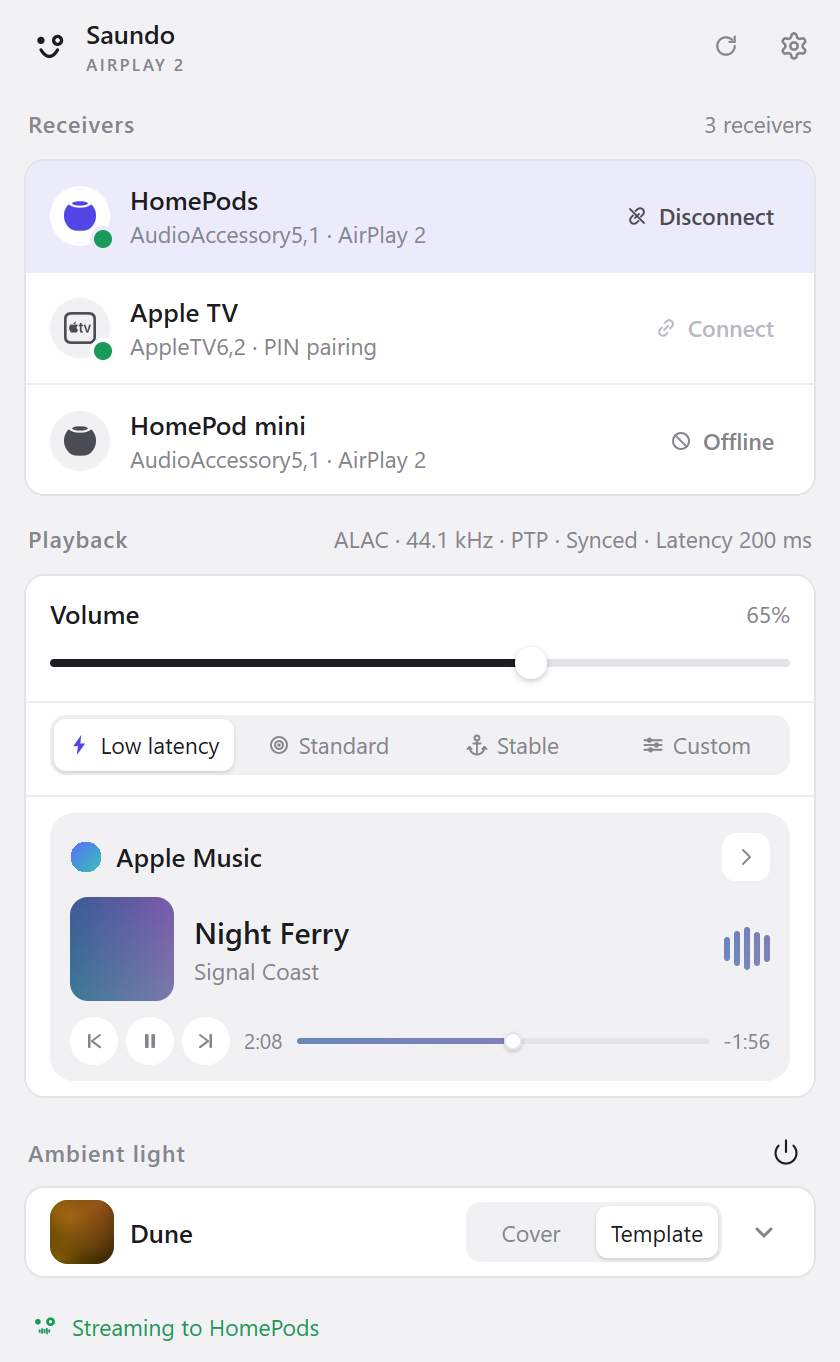
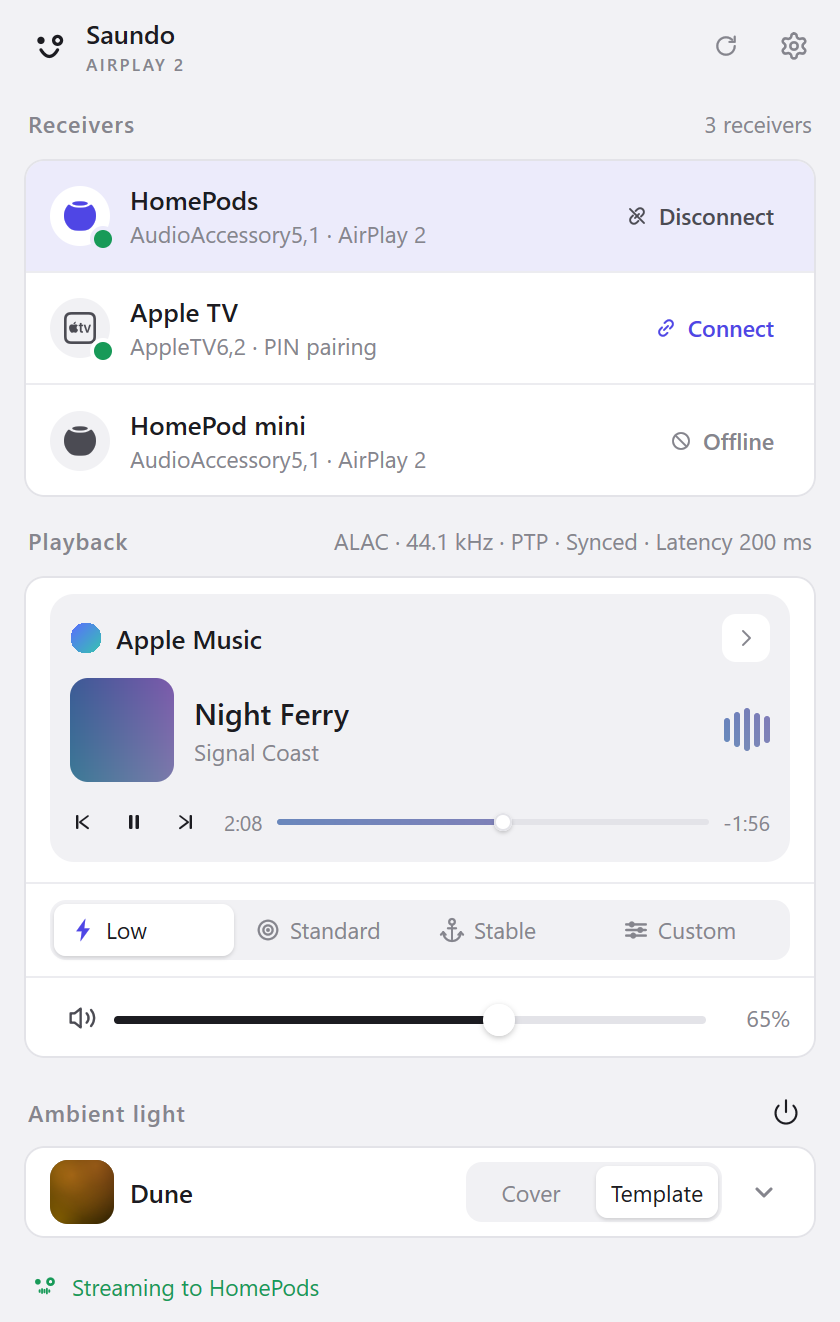
build: release 0.6.3
Release 0.6.3 ships macOS per-app capture, tray menu quick actions,
in-place receiver switching, the media-latency-volume playback card, and
the fail-closed receiver volume rule. It carries both changelogs, the
condensed bilingual READMEs, refreshed screenshots, the docs audit, the UI
review and mockup records, and the maintainer's pre-release test.

Checks: mingw32-make check (gofmt, mygo i18n, go vet, mygo vet, go test
./..., verify-map, check-platforms windows/amd64 and darwin/arm64) passed;
the signed candidate build produced update-windows-amd64.json at 0.6.3 with
the English notes and an 88-character signature; scripts/release-check.sh
passed (clean tree, tag absent, main ancestor, both changelogs, docs,
public repo, signing secret, both current feeds 200).
Pinned-by: the release changes are pinned by their own commits; this commit
adds no code.
Finding: 2026-11-14 live run on Windows 11 build 26300: the 0.6.3 build
streamed to the HomePods stereo pair with encrypted control at 44.1 kHz and
showed the new playback card; evidence in docs/verification.md and
.audit/release-0.6.3/live/.
Docs: CHANGELOG.md, CHANGELOG.zh-CN.md, README.md, README.zh-CN.md,
docs/architecture.md, docs/devices.md, docs/implementation.md,
docs/verification.md, docs/screenshots/; reviewed-through 2026-11-14.

diff --git a/README.md b/README.md
@@ -17,7 +17,7 @@ HomePod, HomePod mini, Mac, and Apple TV: everything the Mac or PC plays, one tr
 <br>
 
 <p align="center">
-  <img src="docs/screenshots/flyout-stream-light-en.png" width="290" alt="The Saundo tray panel: receiver list, volume, media card">
+  <img src="docs/screenshots/flyout-stream-light-en.png" width="290" alt="The Saundo tray panel: receiver list, media card, latency, volume, and ambient light">
   &nbsp;&nbsp;&nbsp;
   <img src="docs/screenshots/settings-connection-light-en.png" width="470" alt="The settings window: connection page">
 </p>
@@ -57,21 +57,15 @@ mingw32-make build  # builds bin/saundo.exe and an NSIS installer (bin/saundo-se
 
 ## What it does
 
-- **System audio capture** — WASAPI loopback on Windows or a Core Audio process tap on macOS: the default output, a fixed endpoint, or, on macOS, one or more applications.
-- **AirPlay 2, properly timed** — uncompressed ALAC at 44.1 kHz, PTP-locked to the receiver's clock (the sender is the PTP master for stereo pairs), encrypted control and event channels, retransmit on request.
-- **HomePod stereo pairs** — both members appear as one target and stream in lockstep.
-- **Receiver management** — add a receiver by IP or hostname when mDNS cannot find it, keep discovered receivers across power-offs, choose one auto-connect target, hide rows from the panel, and give each receiver a DSP/DAC delay plus its own OS-secured password (DPAPI on Windows, the Keychain on macOS). A directed unicast pass finds receivers that miss multicast; the receiver list is cached, so auto-connect starts at launch without waiting for discovery; and both surfaces list only the receivers you can use right now. A receiver that runs on the same computer is never a target: it stays in the hidden group with a Local chip.
-- **Connection health** — the Connection page names the receiver, its model, and its state, then shows the receiver's own reported processing time and this session's stability (Good, or Stuttering after a dropped sample). The two latency values measure different stages and are never added.
-- **Media card** — the tray panel shows the system media session with its app name and icon, cover, title, artist, the transport controls the session reports, and a live five-band meter; switch between open sessions. The Now Playing settings page controls the media card, the cover mode, cover colors, and the audio level. The receiver track-info push is always on.
-- **Ambient light** — on by default. The power action on the tray panel card turns a HomePod's top display off and on; a Cover/Template priority segment follows the media cover (the default) or one of six custom three-color templates. The preview mirrors the cover's extracted three-color palette and uses a media-glyph tile when there is no cover; the receiver's own fresh session shows a white-center placeholder. A pause keeps the current light. Idle standby turns the display off after a chosen period without playback — Never, 1, 5, 10, or 30 minutes — and the first sound wakes it. Turning it off disables the priority and template controls until it is on again. Choose it in the Ambient light settings page or the tray panel's ambient card.
-- **Mute the local output** — a connection switch, on by default, mutes the local output while a session streams and restores it on disconnect, with a guard file that recovers the state after a crash. With per-app capture on macOS, it mutes just the selected app, so other apps keep playing from this Mac.
-- **Appearance** — follow the system, light, or dark.
-- **Latency modes** — low 200 ms, standard 1.5 s, stable 2 s, or a custom 20 to 2000 ms value. Switch in the tray panel or the audio page. A live change restarts the stream with a spinner.
-- **A tray that shows the state** — the smile, stream, and connect faces animate at 12 frames per 100 ms while connecting or streaming. Turn it off in settings. Reduce Motion holds the static face.
-- **Updates in the app** — the settings Update page shows available releases, their notes, and the release history. It installs the signed update. The tray panel's update chip and the tray tooltip point to it. Each platform updates from its own signed manifest in the release. The macOS build is ad-hoc signed until a Developer ID exists, so an update can ask again for system-audio capture and Keychain access.
-- **English and Simplified Chinese** — the interface follows the system language by default, with a language setting and a localized update page, notes dialog, and every engine error message.
-- **Every pairing class** — password-free transient pairing (HomePod), on-screen PIN (Apple TV), receiver password with a first-connect dialog; credentials are protected by the OS secret store (DPAPI on Windows, the Keychain on macOS). If the saved pairing data cannot be read, the app moves it aside and a tray-panel notice explains the reset and offers to pair again.
-- **Stays out of the way** — suspends the stream after 5 s of digital silence and resumes cleanly, auto-reconnects with backoff, follows volume changes made on the receiver, and stops with a Reconnect action when another device takes the receiver over.
+- **System audio capture** — everything the Mac or PC plays: WASAPI loopback on Windows, a Core Audio process tap on macOS, or, on macOS, one or more selected apps.
+- **AirPlay 2, properly timed** — uncompressed ALAC at 44.1 kHz, PTP-locked to the receiver's clock, encrypted control and event channels, retransmit on request. HomePod stereo pairs play in lockstep.
+- **Receivers, managed** — find them with mDNS or add an IP; keep them across power-offs; hide rows; choose one auto-connect target and set a per-receiver delay and password. Switch receivers from the panel or its right-click menu without stopping playback.
+- **One tray surface** — the panel carries the media card, latency, volume, and ambient light; the right-click menu carries receivers, local mute, the lamp, settings, updates, and quit. Animated faces follow the session.
+- **Ambient light** — a HomePod's top display follows the media cover or one of six three-color templates, and turns off after a chosen idle period.
+- **Mute the local output** — silences this computer while streaming and restores it on disconnect. With per-app capture on macOS, only the selected apps go quiet.
+- **Latency modes** — 200 ms, 1.5 s, 2 s, or a custom 20–2000 ms; switch while playing.
+- **Sessions that recover** — auto-reconnect with backoff, silence suspend, takeover handling, and receiver volume following.
+- **Updates, languages, pairing** — the settings update page installs signed updates on both platforms; English and Simplified Chinese; HomePod, Apple TV PIN, and receiver-password pairing with OS-secured credentials.
 
 ## Receiver support
 

diff --git a/docs/implementation.md b/docs/implementation.md
@@ -1,4 +1,4 @@
-<!-- reviewed-through: 2026-11-13 -->
+<!-- reviewed-through: 2026-11-14 -->
 
 # Implementation overview
 
@@ -106,7 +106,7 @@ flyout cannot move the preview away from the top display.
 The `Engine` methods are the UI's whole surface: `Start`, `Stop`,
 `Snapshot`, `Refresh`, `Connect`, `Disconnect`, `SetVolume`, `SubmitPIN`,
 `DismissPasswordPrompt`, `DismissCredentialReset`, `SetReceiverPassword`, `SetCaptureEndpoint`,
-`SetCaptureProcess`, `SetLatency`, `ApplyLatency`, `SetLatencySettings`,
+`SetCaptureApps`, `SetLatency`, `ApplyLatency`, `SetLatencySettings`,
 `SetStrictAuth`, `SetName`, `SetReconnect`,
 `SetMuteLocal`, `SetNowPlaying`, `LevelFrame`, `SetLamp`, `SetStandby`, `SetTrayAnimation`, and the receiver-management commands
 `AddReceiver`, `UpdateReceiver`, `RemoveReceiver`, `SetReceiverAutoConnect`,
@@ -184,7 +184,8 @@ session rather than to the transport. Only a restart that cannot open its new
 session restores it. A connect that replaces a live session is a switch to
 another receiver and takes the same path: `cmdConnect` routes it through
 `restartSession` while a transport is active, so the mute survives the gap. The
-flyout offers that connect on the other online rows only while streaming; a
+flyout offers Connect on the other online rows in every phase but connecting;
+with a live session that click takes the `restartSession` switch path. A
 connection attempt in progress keeps them disabled. A switch whose new session
 cannot open restores the endpoint, whether the failure is synchronous or
 reported at launch.
@@ -233,7 +234,7 @@ reported at launch.
 
 All under `%APPDATA%\saundo\` on Windows and `~/Library/Application Support/saundo/` on macOS:
 
-- `settings.json` — configuration (`internal/settings`), including the update preferences (automatic checks and downloads, skipped version, last check), the tray animation switch, the language and appearance choices, the Now Playing panel options, the local-output mute, and the global ambient-light choice (`lamp.off`, `lamp.cover`, `lamp.preset`). The mute and the light default on; `lamp.off` defaults to false, `lamp.cover` to true, and the preset to `dune` (沙丘). An old `lamp.enabled` is inverted into `lamp.off`; an old `preset: "media"`, an empty preset, or an unknown value turns cover mode on and resets the template to `dune`; a valid template keeps cover priority off unless the file also stored `cover: true`. The legacy `origin` value is handled by the same fallback. The legacy `autoConnect` flag and `passwords` map stay decodable but unread: migration seeds the registry's auto-connect entry and moves passwords to the OS secret store. Writes are field-owned: `Store.Update` loads, merges, and saves under one lock; `MergeApp` and `MergeEngine` copy only the fields each side owns; a reflection test requires every field to be classified; and only the two startup saves write the whole file, because they run before the engine exists.
+- `settings.json` — configuration (`internal/settings`), including the update preferences (automatic checks and downloads, skipped version, last check), the tray animation switch, the language and appearance choices, the Now Playing panel options, the local-output mute, the per-app capture selection (`captureAppIds`, `captureAppNames`), and the global ambient-light choice (`lamp.off`, `lamp.cover`, `lamp.preset`). The mute and the light default on; `lamp.off` defaults to false, `lamp.cover` to true, and the preset to `dune` (沙丘). An old `lamp.enabled` is inverted into `lamp.off`; an old `preset: "media"`, an empty preset, or an unknown value turns cover mode on and resets the template to `dune`; a valid template keeps cover priority off unless the file also stored `cover: true`. The legacy `origin` value is handled by the same fallback. The legacy `autoConnect` flag and `passwords` map stay decodable but unread: migration seeds the registry's auto-connect entry and moves passwords to the OS secret store. Writes are field-owned: `Store.Update` loads, merges, and saves under one lock; `MergeApp` and `MergeEngine` copy only the fields each side owns; a reflection test requires every field to be classified; and only the two startup saves write the whole file, because they run before the engine exists.
 - `receivers.json` — the receiver registry (`internal/receivers`): one entry per remembered receiver, stereo pair, or manually added receiver, with hidden, auto-connect, delay, last address, cached member addresses, feature/auth bits, the last session's retransmit ratio, and sighting-time fields. Written atomically, versioned, and only by the engine goroutine (the startup migration runs before the engine exists). A file that fails to parse, cannot be read, or was written by a newer schema is never overwritten.
 - `credentials.dat` — protected credential JSON keyed by receiver
   `deviceid` (`internal/airplay/creds`), holding the HAP long-term keys plus receiver passwords under the `password:` namespace. DPAPI protects it on Windows; on macOS a Keychain-held master key encrypts it with AES-256-GCM. A file that fails to decrypt is moved to `credentials.dat.corrupt-<UTC time>` and a fresh store is created in its place; the next connect logs the quarantined path and says a receiver may need to be paired again.

diff --git a/docs/verification.md b/docs/verification.md
@@ -1,4 +1,4 @@
-<!-- reviewed-through: 2026-11-13 -->
+<!-- reviewed-through: 2026-11-14 -->
 
 # Verification
 
@@ -1532,3 +1532,74 @@ surviving conclusion, and the pin.
   Pins: devices.md §HomePod. Not established: which receiver-internal buffer
   underruns, and whether larger, compressed blocks would move the floor
   below 200 ms.
+
+## 2026-11-14 — release 0.6.3 UI review
+
+- **Matrix.** `SAUNDO_PREVIEW_DIR=.audit/release-0.6.3/previews go test
+  ./internal/app -run TestRenderPreviews -count=1` rendered 250 PNGs in
+  English and Simplified Chinese, light and dark, including the flyout's
+  stream, connecting, empty, error, ambient, and media states and every
+  settings page. The matrix was re-rendered after the fixes and inspected
+  again.
+- **P0 findings fixed.** The English flyout latency segment truncated to
+  "Low late…" in every state with the row (`ui_kit.go` leading 8-DIP padding
+  plus the 14-DIP glyph); the English label is now Low, and the settings tile
+  keeps its 200 ms value and description. The capture page description said
+  "a single app" on macOS, where the release ships multi-select; it now reads
+  "System audio, or one or more apps." The tray mute row read "Mute local
+  output" while its click unmuted; it now reads Unmute local output while the
+  preference is on (`muteLabel`), matching the bell slash.
+- **P1 fixed.** English per-app copy is plural-neutral like the Chinese copy.
+  **P2 fixed.** The Windows per-app mute caveat and its Windows-only test were
+  removed: the engine drops an unsupported app selection at load, so the
+  state could not occur and the test manufactured it.
+- **Live run.** The UI review itself did not drive the app: the copy and
+  geometry changes were checked in the native preview matrix, the tray menu
+  copy has no native preview and is pinned by
+  `TestTrayMenuMuteLabelFollowsThePreference`, and the English segment is
+  checked in `flyout-stream-light-en.png` and pinned by
+  `TestFlyoutLatencyLowFitsItsSegment`, which fails with the old two-word
+  label. The verification skill's live pass
+  below drove the built app.
+- **Mockup templates.** Both templates already describe the shipped
+  interface: the flyout height rule (439 base, -62 for the old Now Playing row,
+  +90 ambient, +150 media, +44 latency, +48 error, +48 credential, +53
+  expanded), the palette tokens, the card order, and the latency labels
+  (Low, Standard, Stable, Custom) match `flyout.go`, `theme.go`, and
+  `ui_kit.go`; the settings samples match the shipped cards. Rendered 44 PNGs
+  into `.audit/release-0.6.3/mockups/` — settings target, normal, and edge;
+  flyout idle, streaming, empty, error, media, latency, and ambient states;
+  both locales and themes — and inspected them for clipping, overflow, and
+  wrapped copy. No template file changed.
+- **Independent review.** A fresh reviewer on a different model family read
+  the findings, the decision trail (`.audit/release-0.6.3/ui-review-trail.tsv`),
+  and the diff; a second fresh reviewer checked the fixes.
+- **Verification skill.** Outcome: changed. The source pass covered all six
+  feature pages, and every page needed at least one correction: stale refs,
+  the missing per-app states and mute copy, the fallback's disabled state,
+  and the updates disabled and folded-history behavior. The corrections
+  landed as their own commit before the release commit. No product defect.
+  The live pass is below; per-app capture and audible Mac checks are
+  unreachable on this Windows host, and the native tray menu and settings
+  window were not re-driven.
+- **Release candidate.** `go tool mygo build -platform windows/amd64` with
+  `MYGO_UPDATER_PRIVATE_KEY` and `MYGO_LDFLAGS=-X
+  saundo/internal/app.Version=0.6.3` produced `saundo-setup-0.6.3-amd64.exe`,
+  the update archive, the deltas, and `update-windows-amd64.json`: version
+  0.6.3, the English 0.6.3 notes, and an 88-character signature. The
+  maintainer's release request stands as the pre-release test; the same run
+  launched the build and streamed to the HomePods pair.
+- **Live pass (verification skill).** The 0.6.3 build launched from the
+  release worktree and auto-connected to the HomePods stereo pair. The log
+  records `control channel now encrypted`, `session SETUP ok`, `streaming to
+  "HomePod L"` and `"HomePod R"` at 44100 Hz encrypted, SET_PARAMETER 200s,
+  and `update: 0.6.2 available` (correct for a build past the 0.6.2 tag: the
+  git-describe stamp sorts below it). The flyout capture shows the receiver
+  row, the media-latency-volume playback card, the volume percent, the
+  ambient card, and the update chip:
+  `.audit/release-0.6.3/live/flyout-0.6.3.png`. Windows is this host, so the
+  per-app picker is correctly absent and the Capture page reads System audio.
+  Not re-driven live: the native tray menu (its only 0.6.3 delta is the mute
+  label, pinned by `TestTrayMenuMuteLabelFollowsThePreference`; the menu was
+  driven live on 2026-11-13), the settings window (the preview matrix is the
+  full visual record), and audible output on a Mac.

diff --git a/CHANGELOG.md b/CHANGELOG.md
@@ -5,6 +5,46 @@ All notable changes to saundo are documented here. The format follows
 semantic versioning. `mygo build` reads the `## <version>` section as the
 release notes.
 
+## 0.6.3 - 2026-11-14
+
+### Added
+
+- Per-app capture on the Mac. The Capture settings list running applications
+  with their icons; pick one or more, and the selection streams through one
+  tap. Audio helpers fold into the app whose bundle ID prefixes theirs. The
+  selection keeps bundle IDs, so it survives restarts. The capture status
+  names the selection count and warns when an app is missing or is waiting
+  for its first sound.
+- Quick actions in the tray menu. A right click lists one row per visible
+  receiver, with the connected receiver in the accent color; when no row is
+  the target, Connect to last receiver follows. Mute local output and the
+  ambient light toggle from the same menu, and the mute row reads Unmute
+  local output while the preference is on.
+
+### Changed
+
+- Connecting another receiver while streaming switches to it in place. The
+  local mute survives the switch, and the previous output comes back if the
+  new session fails. While streaming, the panel offers Connect on the other
+  online rows.
+- The local mute survives a latency change that restarts the stream.
+- The playback card orders media, latency, and volume on one content column.
+  The volume row shows its integer percent on one line, the latency glyphs
+  are larger, and the transport glyphs draw their circle only on hover.
+- The latency preset cards share one height, so a wrapped description no
+  longer leaves them uneven. The connecting row's action carries a cancel
+  icon.
+- The tray menu no longer offers Disconnect; the panel's active receiver row
+  keeps it.
+
+### Fixed
+
+- An unknown receiver volume no longer means full scale. When the AP2
+  handshake has no usable initial volume, or reports -144 (mute), the sender
+  sends no volume command and the receiver keeps its own level. A malformed
+  value is no longer read as zero, a value below -144 clamps to mute, and the
+  1 Hz volume poll follows the same rule.
+
 ## 0.6.2 - 2026-11-12
 
 ### Added

diff --git a/CHANGELOG.zh-CN.md b/CHANGELOG.zh-CN.md
@@ -2,6 +2,25 @@
 
 saundo 的显著变更记录在这里。格式遵循 Keep a Changelog，版本使用语义化版本。`mygo build` 读取 `CHANGELOG.md` 的 `## <version>` 段作为发布说明。本文件是中文翻译，版本标题与 `CHANGELOG.md` 保持一致。
 
+## 0.6.3 - 2026-11-14
+
+### 新增
+
+- macOS 按应用采集。采集设置列出正在运行的应用及其图标，可选一个或多个；所选应用经同一个 Tap 混音后串流。音频辅助进程按 bundle ID 前缀归并到所属应用。选择以 bundle ID 保存，重启后保留。采集状态显示所选数量，应用缺失或尚未发声时给出提示。
+- 托盘菜单快捷操作。右键菜单为每个可见接收器列出一行，当前接收器使用强调色；没有可定位的行时，显示“连接上次接收器”。同一菜单可切换“静音本机输出”和氛围灯；静音已开启时，该行显示“取消静音本机输出”。
+
+### 变更
+
+- 播放中连接另一台接收器会直接切换，不再先断开；本机静音跨切换保留，新会话失败时恢复原输出。播放中，托盘面板的其他在线接收器行显示“连接”。
+- 延迟变更导致串流重启时，本机静音保持不变。
+- 播放卡片按媒体、延迟、音量排列在同一内容列。音量一行显示整数百分比，延迟图标更大，播放控制图标只在悬停时显示圆底。
+- 三张延迟预设卡等高，描述换行时不再参差不齐；连接中行的动作带取消图标。
+- 托盘菜单不再提供“断开连接”；托盘面板中正在使用的接收器行仍保留该动作。
+
+### 修复
+
+- 接收器音量未知时不再按满音量处理。AP2 握手没有可用的初始音量，或返回 -144（静音）时，发送端不发送音量命令，接收器保持自身音量。格式错误的值不再被当作 0，低于 -144 的值钳制到静音，1 Hz 音量轮询遵循同一规则。
+
 ## 0.6.2 - 2026-11-12
 
 ### 新增

diff --git a/docs/architecture.md b/docs/architecture.md
@@ -1,4 +1,4 @@
-<!-- reviewed-through: 2026-11-12 -->
+<!-- reviewed-through: 2026-11-14 -->
 
 # saundo Architecture and Technology Selection
 
@@ -21,7 +21,7 @@ Not targets:
 - Screen mirroring and video.
 - FairPlay audio. Apple TV 3-class receivers fail fast at discovery; see [devices.md](devices.md).
 
-Multi-room stereo pairs, application-level capture, and an AirPlay 1 fallback are implemented; they are documented where they belong, not here.
+Multi-room stereo pairs, application-level capture on macOS, and an AirPlay 1 fallback are implemented; they are documented where they belong, not here.
 
 ## 1. Decision
 

diff --git a/docs/devices.md b/docs/devices.md
@@ -1,4 +1,4 @@
-<!-- reviewed-through: 2026-11-11 -->
+<!-- reviewed-through: 2026-11-14 -->
 
 # Receiver profiles
 
